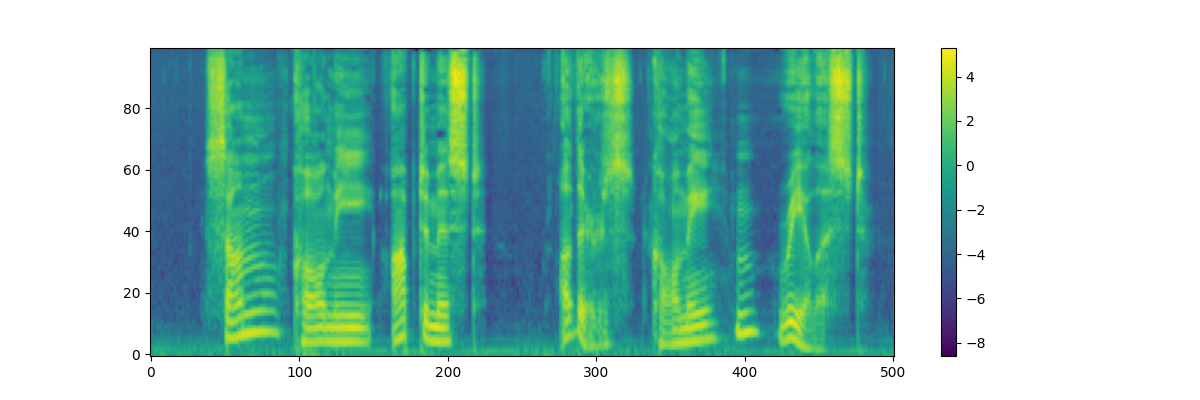
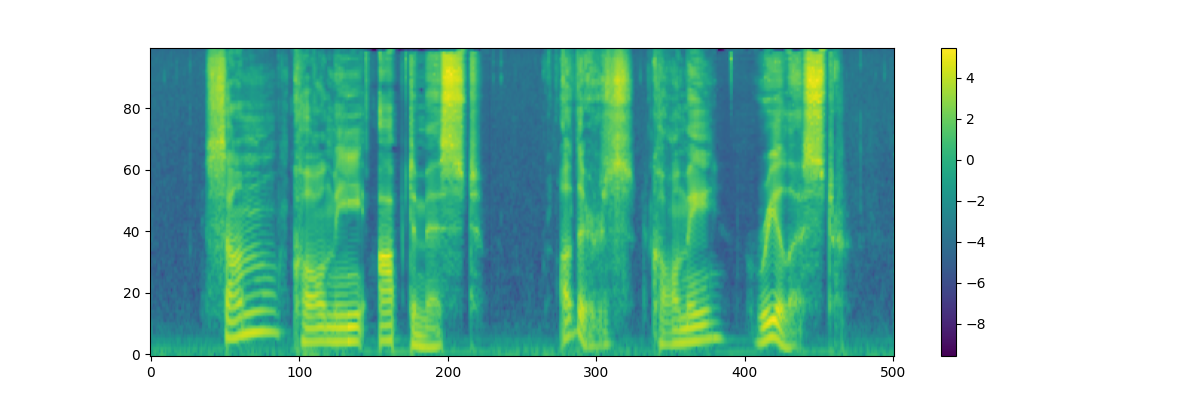
run vevo2 editing

diff --git a/src/f5_tts/infer/infer_cli_editing.py b/src/f5_tts/infer/infer_cli_editing.py
@@ -32,7 +32,11 @@ from f5_tts.infer.utils_infer import (
     remove_silence_for_generated_wav,
 )
 from f5_tts.model import DiT, UNetT
-
+import torch
+import torchaudio
+import torch.nn.functional as F
+from f5_tts.model.utils import convert_char_to_pinyin
+from f5_tts.infer.utils_infer import save_spectrogram
 
 parser = argparse.ArgumentParser(
     prog="python3 infer-cli.py",
@@ -172,6 +176,11 @@ parser.add_argument(
     type=float,
     help=f"Fix the total duration (ref and gen audios) in seconds, default {fix_duration}",
 )
+parser.add_argument("--save_root", type=str, required=True)
+parser.add_argument("--model_name", type=str, required=True)
+parser.add_argument("--evalset_root", type=str, required=True)
+parser.add_argument("--eval_setting", type=str, required=True)
+parser.add_argument("--task_name", type=str, required=True)
 
 args = parser.parse_args()
 
@@ -493,34 +502,28 @@ def infer_one_sample(
 
 
 def load_evalset(evalset_name):
-    if "svcc2025" in evalset_root:
-        evalset_file = os.path.join(evalset_root, f"{evalset_name}.json")
-    else:
-        evalset_file = os.path.join(evalset_root, evalset_name, "evalset.json")
+    evalset_file = os.path.join(evalset_root, evalset_name, "evalset_with_span.json")
 
     with open(evalset_file, "r") as f:
         evalset = json.load(f)
     return evalset
 
 
-if __name__ == "__main__":
-    import torch
-    import torchaudio
-    import torch.nn.functional as F
-    from f5_tts.model.utils import convert_char_to_pinyin
-    from f5_tts.infer.utils_infer import save_spectrogram
+def run_editing(
+    audio_to_edit,
+    target_text,
+    parts_to_edit,
+    fix_duration=None,
+    output_path=None,
+):
+    # audio_to_edit = "/storage/zhangxueyao/workspace/F5-TTS/src/f5_tts/infer/examples/basic/basic_ref_en.wav"
+    # origin_text = "Some call me nature, others call me mother nature."
+    # target_text = "Some call me optimist, others call me realist."
+    # parts_to_edit = [
+    #     [1.42, 2.44],
+    #     [4.04, 4.9],
+    # ]  # stard_ends of "nature" & "mother nature", in seconds
 
-    audio_to_edit = "/storage/zhangxueyao/workspace/F5-TTS/src/f5_tts/infer/examples/basic/basic_ref_en.wav"
-    origin_text = "Some call me nature, others call me mother nature."
-    target_text = "Some call me optimist, others call me realist."
-    parts_to_edit = [
-        [1.42, 2.44],
-        [4.04, 4.9],
-    ]  # stard_ends of "nature" & "mother nature", in seconds
-    fix_duration = [
-        1.2,
-        1,
-    ]  # fix duration for "optimist" & "realist", in seconds
     target_sample_rate = 24000
     hop_length = 256
     tokenizer = "pinyin"
@@ -609,13 +612,67 @@ if __name__ == "__main__":
         if rms < target_rms:
             generated_wave = generated_wave * rms / target_rms
 
-        output_dir = (
-            "/storage/zhangxueyao/workspace/F5-TTS/src/f5_tts/infer/examples/basic"
+        # output_dir = (
+        #     "/storage/zhangxueyao/workspace/F5-TTS/src/f5_tts/infer/examples/basic"
+        # )
+        # save_spectrogram(
+        #     gen_mel_spec[0].cpu().numpy(), f"{output_dir}/speech_edit_out.png"
+        # )
+        # torchaudio.save(
+        #     f"{output_dir}/speech_edit_out.wav", generated_wave, target_sample_rate
+        # )
+        # print(f"Generated wav: {generated_wave.shape}")
+
+        torchaudio.save(output_path, generated_wave, target_sample_rate)
+
+
+if __name__ == "__main__":
+    evalset_root = args.evalset_root
+    evalset_name = args.eval_setting
+    evalset = load_evalset(evalset_name)
+
+    print("\nFor {}...".format(evalset_name))
+    save_dir = os.path.join(args.save_root, args.task_name, evalset_name)
+    os.makedirs(save_dir, exist_ok=True)
+
+    for item in tqdm(evalset):
+        output_filename = "{}-{}-{}".format(
+            args.model_name, evalset_name, item["output_path"]
         )
-        save_spectrogram(
-            gen_mel_spec[0].cpu().numpy(), f"{output_dir}/speech_edit_out.png"
+        output_path = os.path.join(save_dir, output_filename)
+        if os.path.exists(output_path):
+            continue
+
+        raw_text = item["prompt"]["text"]
+        raw_audio = os.path.join(
+            evalset_root,
+            evalset_name,
+            "wav",
+            "{}.wav".format(item["prompt"]["uid"]),
         )
-        torchaudio.save(
-            f"{output_dir}/speech_edit_out.wav", generated_wave, target_sample_rate
+        target_text = item["input"]["text"]
+        parts_to_edit = item["morphed_span"]
+
+        run_editing(
+            audio_to_edit=raw_audio,
+            target_text=target_text,
+            parts_to_edit=parts_to_edit,
+            output_path=output_path,
         )
-        print(f"Generated wav: {generated_wave.shape}")
+
+    ### Eval ###
+    eval_log_dir = os.path.join(args.save_root, "log_eval")
+    os.makedirs(eval_log_dir, exist_ok=True)
+
+    eval_log_file = os.path.join(
+        eval_log_dir, f"{args.task_name}_{args.eval_setting}.log"
+    )
+
+    os.system(
+        f"python /storage/zhangxueyao/workspace/SpeechGenerationYC/models/svc/llm/evaluation/eval_wer_sim_fpc.py \
+    --save_root {args.save_root} \
+    --model_name {args.model_name} \
+    --evalset_root {args.evalset_root} \
+    --eval_setting {args.eval_setting} \
+    --task_name {args.task_name} > {eval_log_file} 2>&1 &"
+    )
